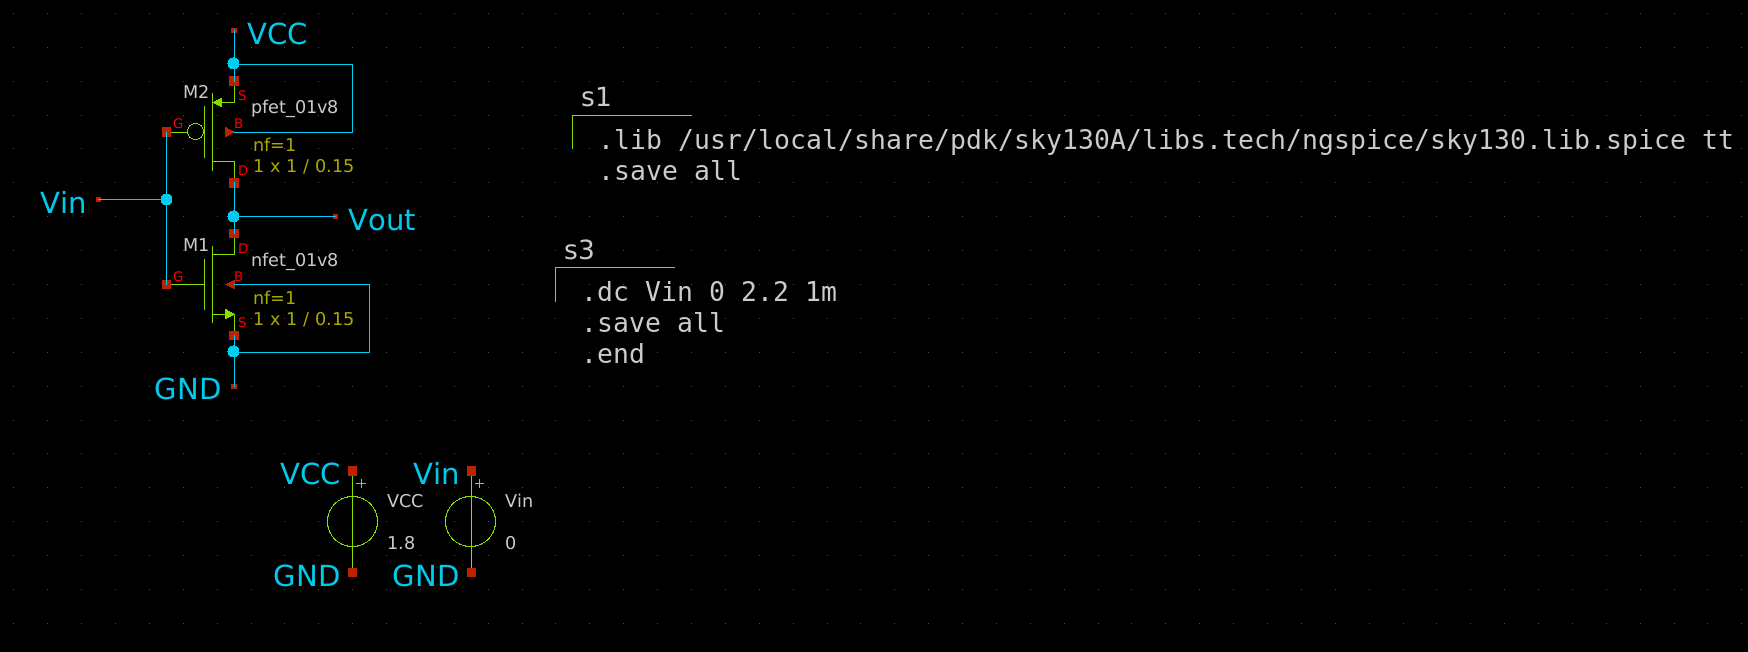
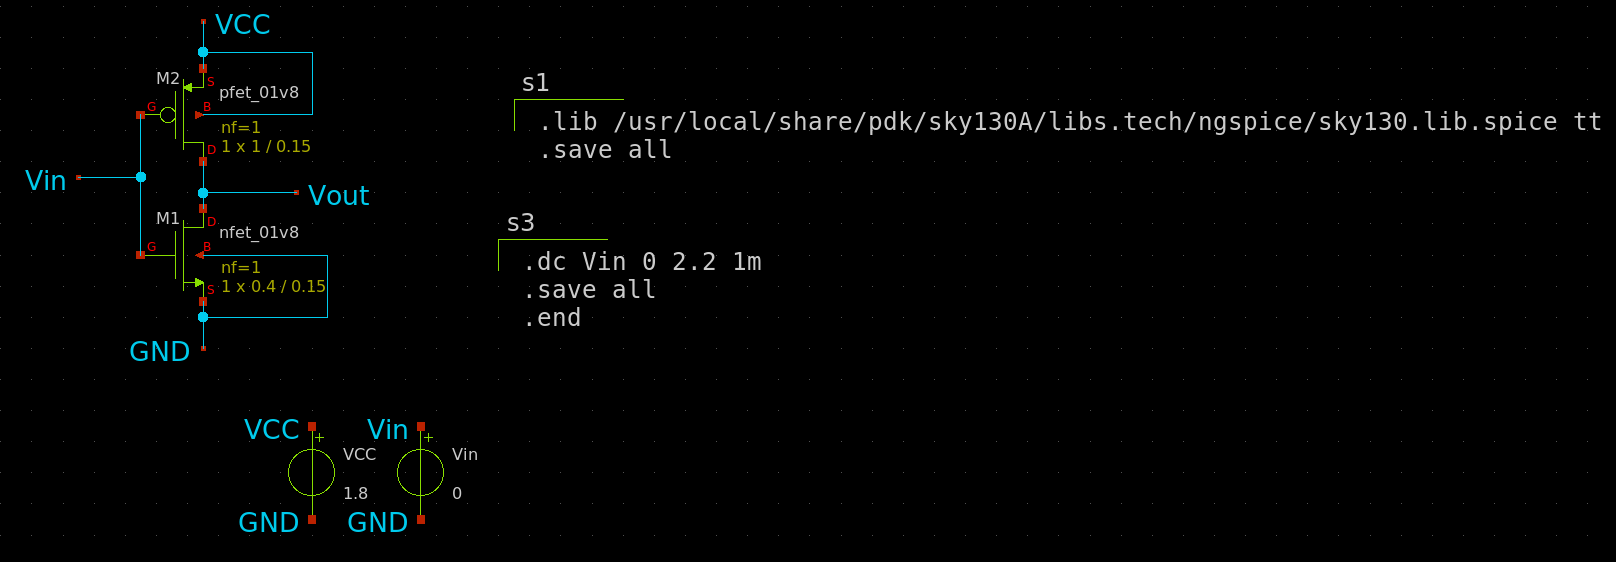
Noise Margin Calculated

diff --git a/README.md b/README.md
@@ -1,5 +1,5 @@
 # CMOS Inverter
--In this project we will study characteristics of a CMOS Inverter.
+In this project we will study characteristics of a CMOS Inverter.
 
 ## Tools Used
 - XSCHEM
@@ -63,14 +63,39 @@
 ## CMOS
 - For an inverter, we can't use NMOS or PMOS. But we can use a combination of them. NMOS can discharge a capacitor fully, while PMOS can charge a capacitor fully. Series of both of them will create an inverter for us, which can do both charge as well as discharge.
 - PMOS is a pull up network, whereas NMOS is a pull down network.
+- The W/L ratio of PMOS is 2.5 greater than the W/L ratio of NMOS. This is because when we equate the current equations of NMOS and PMOS, this ratio is equal to the ratio of electron mobility in NMOS and hole mobility in PMOS, which is around 2.5~3.
 - The following is the schematic of a CMOS Inverter.
 
 ![CMOS Inverter Schematic](/Images/cmos.png)
 
 ### Voltage Transfer Characteristics
 - DC sweep is used to plot VTC. Vin is varied from 0 to 2.2V with gap of 1mV.
+- The point where Vin and Vout meet is called switching threshold point, Vm. In ideal cases it for the CMOS to be symmetric, it should be exactly at the middle (Vdd/2). For our case, it should be 0.9V. 
+- Initially the W/L ratios are same in the simulation (1/0.15). But when we plot the VTC, we observe that Vm is 0.838V, which is less than 0.9V. To increase this either we can increase width of PMOS or decrease that of NMOS. Also, we have to keep the W/L ratios of PMOS to NMOS as 2.5. So, I have taken width of NMOS as 0.4 and width of PMOS as 1. By this, we get the value of Vm as 0.882V which is better than the previous case.
+- To calculate Vm, we use the command: meas dc vm when vin=vout in ngspice terminal.
 
 ![Voltage Transfer Characteristics](/Images/vtc.png)
 
+Now we calculate other parameters of CMOS: VOH, VOL, VIH, VIL
+- VOH - Maximum output voltage when it is logic '1'.
+- VOL - Minimun output voltage when it is logic '0'.
+- VIH - Minimum input voltage that can be interpreted as logic '1' input.
+- VIL - Maximum input voltage that can be interpreted as logic '0' input.
+- VOH = 1.8V and VOL = 0V clearly.
+- VIH and VIL are calculated at those points in the VTC where the gain is -1. Derivative of Vout should be -1.
+- We define a variable gain = (abs(deriv(vout)) >= 1)*1.8
+- Then we plot both gain and vout in same plot. The points where these two plots intersect are VIL and VIH.
+- Command to find those points is: meas VIL dc find vin when gain=1 cross=1
+			        meas VIH dc find vin when gain=1 cross=last
+		
+![VIL and VIH](/Images/vil_vih.png)
 
+So, the calculated parameters are:
+- VOH = 1.8V
+- VOL = 0V
+- VIL = 0.7475V
+- VIH = 1.0044V
+Noise Margin Formula
+NML(Noise Margin for Low) - VIL - VOL = 0.7475 V
+NMH(Noise Margin for HIGH) - VOH - VIH = 0.7956 V
 
